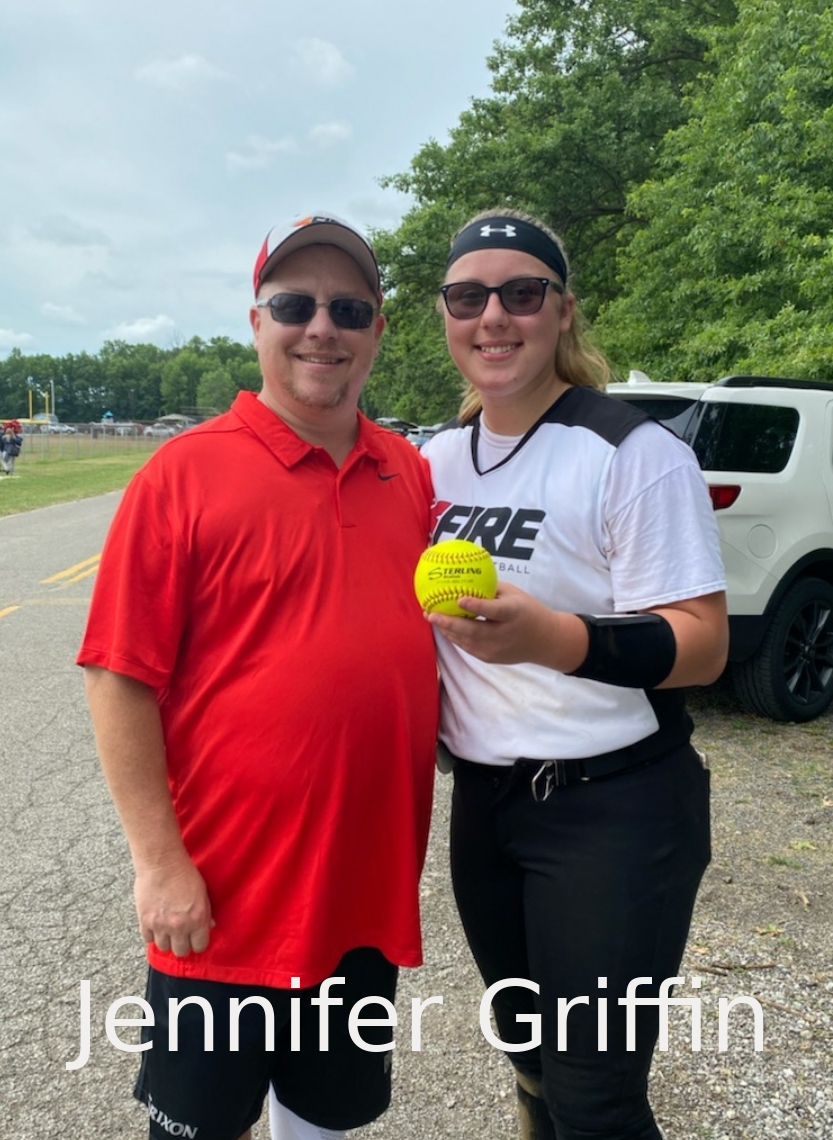
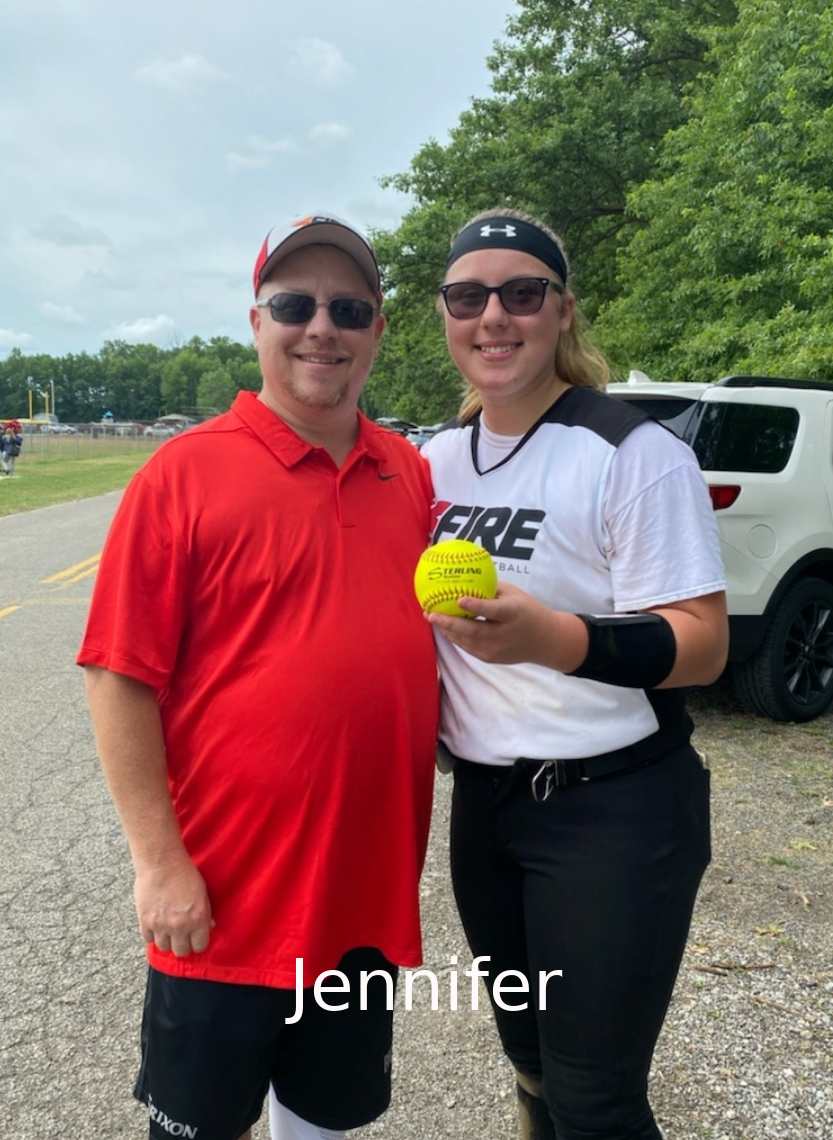
got rid of arrows, removed last names, changed cacheing

Changed region(s): [[0.0624, 0.8289, 0.9364, 0.9518]]

diff --git a/src/components/carousel/carousel.jsx b/src/components/carousel/carousel.jsx
@@ -1,9 +1,7 @@
 import React, { Component } from 'react';
 import ImageSlide from '../imageSlide/imageSlide';
-import Arrow from '../arrow/arrow'
 
 import './carousel.scss'
-
 
 const images = require.context("../../assets", true);
 
@@ -11,7 +9,7 @@ const imgUrls = [
   images(`./Chloe_1st_dinger.jpg`),
   images(`./Chloe_2cnd_dinger.jpg`),
   images(`./JenniferGriffin.jpg`),
-  images(`./MadusonZiegler.jpg`)
+  images(`./MadisonZiegler.jpg`)
 ];
 
 class Carousel extends Component {
@@ -21,9 +19,6 @@ class Carousel extends Component {
     this.state = {
       currentImageIndex: 0
     };
-
-    this.nextSlide = this.nextSlide.bind(this);
-    this.previousSlide = this.previousSlide.bind(this);
     this.setNextImage = this.setNextImage.bind(this);
   }
 
@@ -42,45 +37,11 @@ class Carousel extends Component {
     });
   }
 
-  previousSlide() {
-    const lastIndex = imgUrls.length - 1;
-    const { currentImageIndex } = this.state;
-    const shouldResetIndex = currentImageIndex === 0;
-    const index = shouldResetIndex ? lastIndex : currentImageIndex - 1;
-
-    this.setState({
-      currentImageIndex: index
-    });
-  }
-
-  nextSlide() {
-    const lastIndex = imgUrls.length - 1;
-    const { currentImageIndex } = this.state;
-    const shouldResetIndex = currentImageIndex === lastIndex;
-    const index = shouldResetIndex ? 0 : currentImageIndex + 1;
-
-    this.setState({
-      currentImageIndex: index
-    });
-  }
-
-
   render() {
 
     return (
       <div className="carousel">
-        <Arrow
-          direction='left'
-          clickFunction={this.previousSlide}
-          glyph='&#9664;' />
-        
         <ImageSlide url={imgUrls[this.state.currentImageIndex]} />
-        {/* <img src={imgsrc1} alt="first" /> */}
-        
-        <Arrow
-          direction="right"
-          clickFunction={this.nextSlide}
-          glyph='&#9654;' />
       </div>
     );
   }
